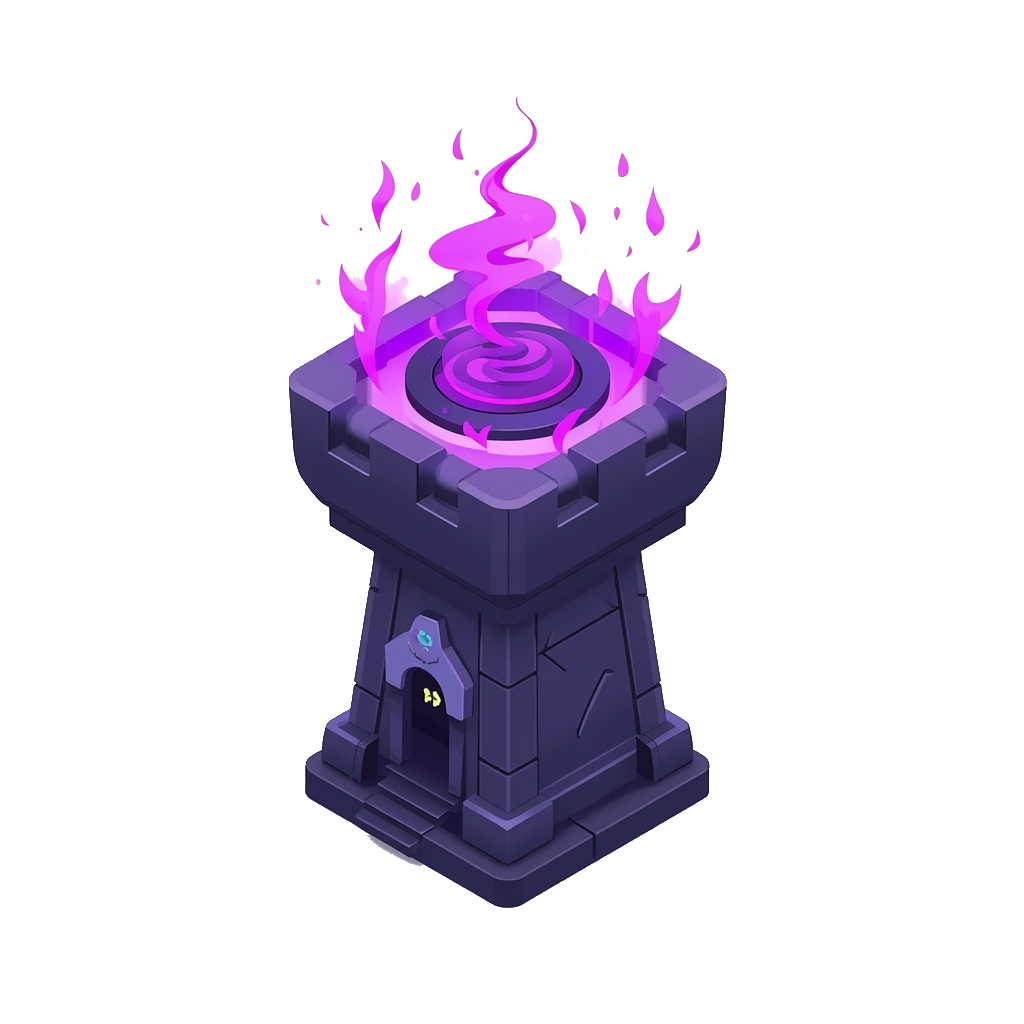
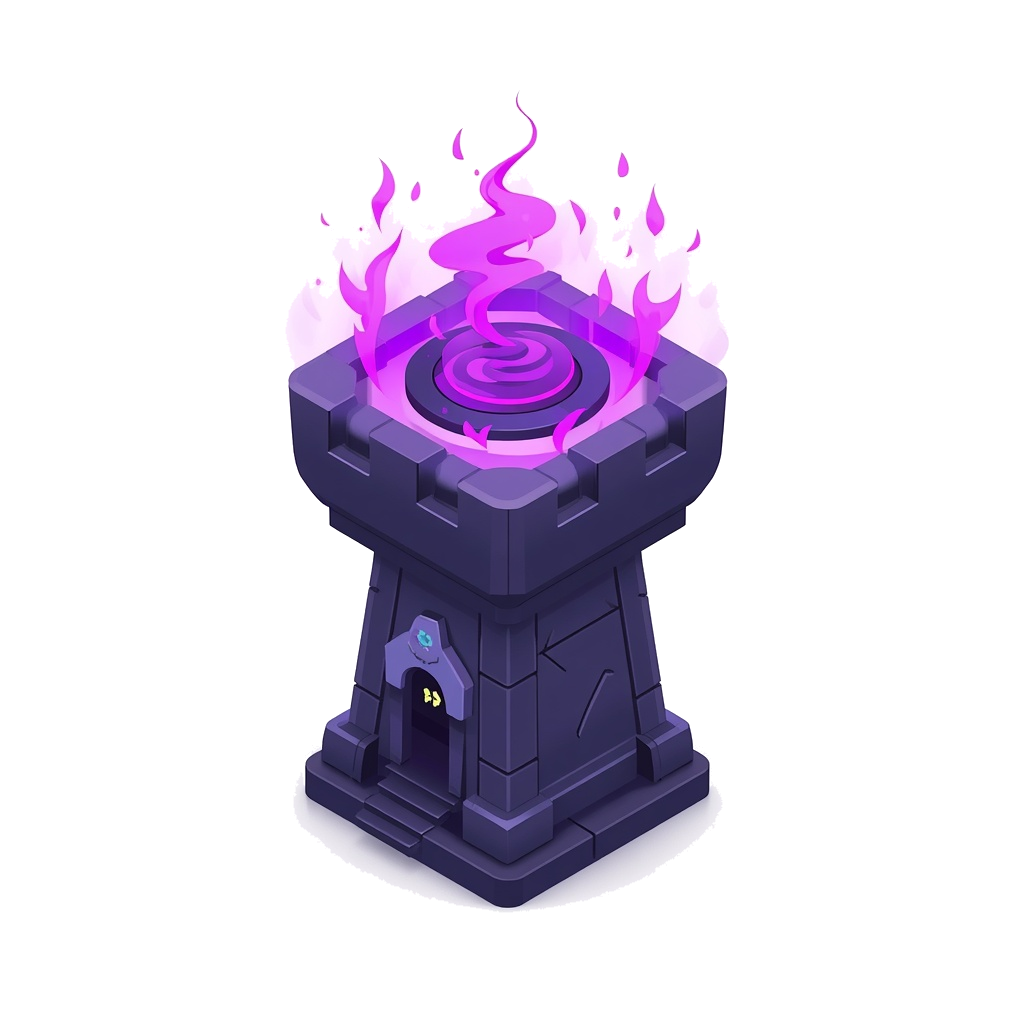
fix: แก้ป้อมใหม่ภาพแหว่ง เนื้อหินโดนกิน (v3.24.43)
v3.24.42 คีย์พื้นด้วย saturation-aware ที่กินหินเทาอ่อน (จืด+สว่าง)
ที่ต่อพื้นขาว → แหว่ง แก้โดยคีย์ใหม่จากต้นฉบับ ลบเฉพาะ near-pure-white
(thr 236 border-connected) + feather → เก็บเนื้อหินครบทั้ง 10 ใบ

diff --git a/Tower Quest 🏰.html b/Tower Quest 🏰.html
@@ -3,7 +3,7 @@
 
 <meta name="viewport" content="width=device-width, initial-scale=1.0, maximum-scale=1.0, user-scalable=no">
 <title>Tower Quest 🏰</title>
-<link rel="stylesheet" href="css/main.css?v=3.24.42">
+<link rel="stylesheet" href="css/main.css?v=3.24.43">
 </head>
 <body>
 
@@ -59,7 +59,7 @@
   <div class="island" id="logoIsland">🏰</div>
   <div class="gtitle">TOWER QUEST</div>
   <div class="gsub">⚔ ปกป้องอาณาจักรของคุณ!</div>
-  <div id="verBtn" style="font-size:10px;color:rgba(255,224,130,.45);letter-spacing:1px;margin-top:-18px;margin-bottom:18px;cursor:pointer;">📰 v3.24.42 — มีอะไรใหม่<span id="newsBadge" class="news-badge" style="display:none;"></span></div>
+  <div id="verBtn" style="font-size:10px;color:rgba(255,224,130,.45);letter-spacing:1px;margin-top:-18px;margin-bottom:18px;cursor:pointer;">📰 v3.24.43 — มีอะไรใหม่<span id="newsBadge" class="news-badge" style="display:none;"></span></div>
 
   <!-- battle buttons -->
   <button class="bbattle" id="startBtn">⚔ โหมดเนื้อเรื่อง</button>
@@ -920,15 +920,15 @@
     <button class="obtn" onclick="closeSettings()">✔ ปิด</button>
   </div>
 </div>
-<script src="js/cloud-save.js?v=3.24.42"></script>
-<script src="js/save.js?v=3.24.42"></script>
-<script src="js/enemy.js?v=3.24.42"></script>
-<script src="js/tower.js?v=3.24.42"></script>
-<script src="js/game.js?v=3.24.42"></script>
-<script src="js/ui-data.js?v=3.24.42"></script>
-<script src="js/ui-profile.js?v=3.24.42"></script>
-<script src="js/ui-casino.js?v=3.24.42"></script>
-<script src="js/ui.js?v=3.24.42"></script>
+<script src="js/cloud-save.js?v=3.24.43"></script>
+<script src="js/save.js?v=3.24.43"></script>
+<script src="js/enemy.js?v=3.24.43"></script>
+<script src="js/tower.js?v=3.24.43"></script>
+<script src="js/game.js?v=3.24.43"></script>
+<script src="js/ui-data.js?v=3.24.43"></script>
+<script src="js/ui-profile.js?v=3.24.43"></script>
+<script src="js/ui-casino.js?v=3.24.43"></script>
+<script src="js/ui.js?v=3.24.43"></script>
 
 
 </body></html>

diff --git a/js/ui-data.js b/js/ui-data.js
@@ -1,6 +1,9 @@
 /* ══ WHAT'S NEW (patch notes) ══ */
-const GAME_VERSION='3.24.42';
+const GAME_VERSION='3.24.43';
 const PATCH_NOTES=[
+  {ver:'3.24.43',date:'2026-07-03',title:'🔧 แก้ป้อมใหม่ภาพแหว่ง (เนื้อหินโดนกิน)',notes:[
+    'คีย์พื้นหลังใหม่แบบลบเฉพาะสีขาวแท้ ไม่กินเนื้อหินเทา — ป้อมทั้ง 10 ครบเต็มไม่แหว่ง',
+  ]},
   {ver:'3.24.42',date:'2026-07-03',title:'🏰 เจนภาพป้อมทั้ง 10 ใหม่ผ่าน Leonardo.ai',notes:[
     'เปลี่ยนรูปป้อมทั้งหมด 10 แบบเป็นภาพใหม่สไตล์การ์ตูน 3D ไอโซเมตริก เข้าชุดกันทั้งเซ็ต',
     'พื้นหลังโปร่งใสสะอาด โทนเข้าธีม dark fantasy ของเกม',

diff --git a/CHANGELOG.md b/CHANGELOG.md
@@ -2,6 +2,11 @@
 
 All notable changes to Tower Quest 🏰 will be documented in this file.
 
+## v3.24.43 — แก้ป้อมใหม่ภาพแหว่ง (เนื้อหินโดนกิน)
+
+### Fixed
+- `assets/images/tower_*.{png,webp}` (10 ป้อม): v3.24.42 คีย์พื้นด้วย saturation-aware flood fill ซึ่งกินเนื้อหินเทาอ่อน (จืด+สว่าง เข้าเกณฑ์ is_bg) ที่ต่อกับพื้นขาว → ป้อมแหว่ง แก้โดยคีย์ใหม่จากต้นฉบับด้วยวิธีลบเฉพาะ near-pure-white (thr 236, border-connected) + graded feather → เก็บเนื้อหิน/สีอ่อนไว้ครบทุกใบ
+
 ## v3.24.42 — เจนภาพป้อมทั้ง 10 ใหม่ (Leonardo.ai Lucid Origin)
 
 ### Changed

diff --git a/PROJECT_MASTER.md b/PROJECT_MASTER.md
@@ -3,7 +3,7 @@
 This document is a system-by-system map of the game as implemented in
 [`Tower Quest 🏰.html`](Tower%20Quest%20%F0%9F%8F%B0.html) plus its
 `css/main.css` and `js/{save,enemy,tower,game,ui}.js` modules (current
-version **v3.24.42**). Line numbers refer to these files and
+version **v3.24.43**). Line numbers refer to these files and
 may drift as they change — use them as a starting point for searches, not as
 permanent anchors.
 

diff --git a/CLAUDE.md b/CLAUDE.md
@@ -5,7 +5,7 @@ Guidance for Claude Code (and other AI assistants) working in this repository.
 ## Project Summary
 
 **Tower Quest 🏰** is a browser-based tower defense game written in
-Thai, currently at **v3.24.42**. Since the v1.6.1 refactor, the game is split
+Thai, currently at **v3.24.43**. Since the v1.6.1 refactor, the game is split
 across:
 
 - [`Tower Quest 🏰.html`](Tower%20Quest%20%F0%9F%8F%B0.html) — head/body
